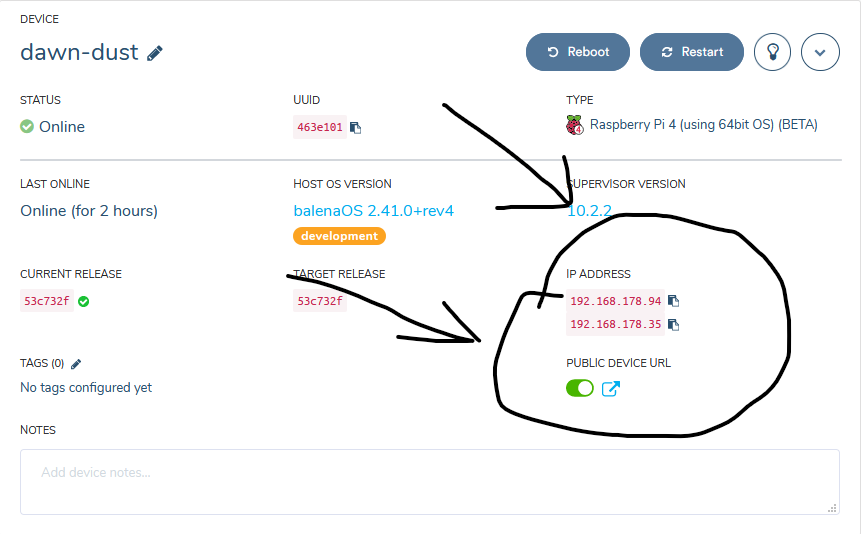
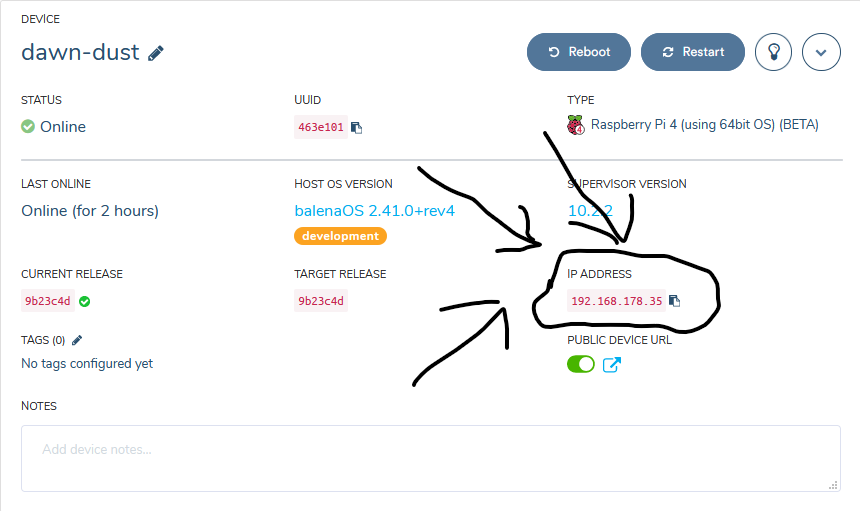
Add scp support

diff --git a/README.md b/README.md
@@ -1,6 +1,6 @@
 ![Balena Server Logo](images/logo.png)
 
-# A Minecraft server for the Raspberry Pi 4 
+# A Minecraft server for the Raspberry Pi 4.
 **Starter project enabling you a Mineccaft Server using just a Raspberry Pi.**
 
 This project has been tested on Raspberry Pi 4 B 1GB and Raspberry Pi 4 B 4GB. We do not recommend using a Raspberry Pi 3 or deeper. They have not enough RAM and power to calculate all the things.
@@ -40,7 +40,7 @@ This project is in active development so if you have any feature requests or iss
 
 ## Connect to the server
 
-You can see in the Dashboard two ip-adresses. One of them is the from your server. One example:
+You can see in the Dashboard one IP-adress. It is the from your server. One example:
 
 ![IP-Adress](images/IP-Adress.png)
 
@@ -56,3 +56,9 @@ There are many clients, but you can pick one here:
 * mcrcon: https://github.com/Tiiffi/mcrcon/releases
 
 **NOTE:** You will need for starting this script this batchfile if you are using windows (Just paste it in the unzipped directory.): https://github.com/AlexProgrammerDE/RCON-Script/blob/master/launch.bat
+
+## Connect to the file-directory
+
+You can connect to the server and change your serverfiles. I recommend using a Tool like [WinSCP](https://winscp.net/).
+The IP is the one above, the protocoll `SCP`, the port `22`, the username `root` and the password is `balenaserver`.
+The files are in the root directory folder `serverfiles`. 
